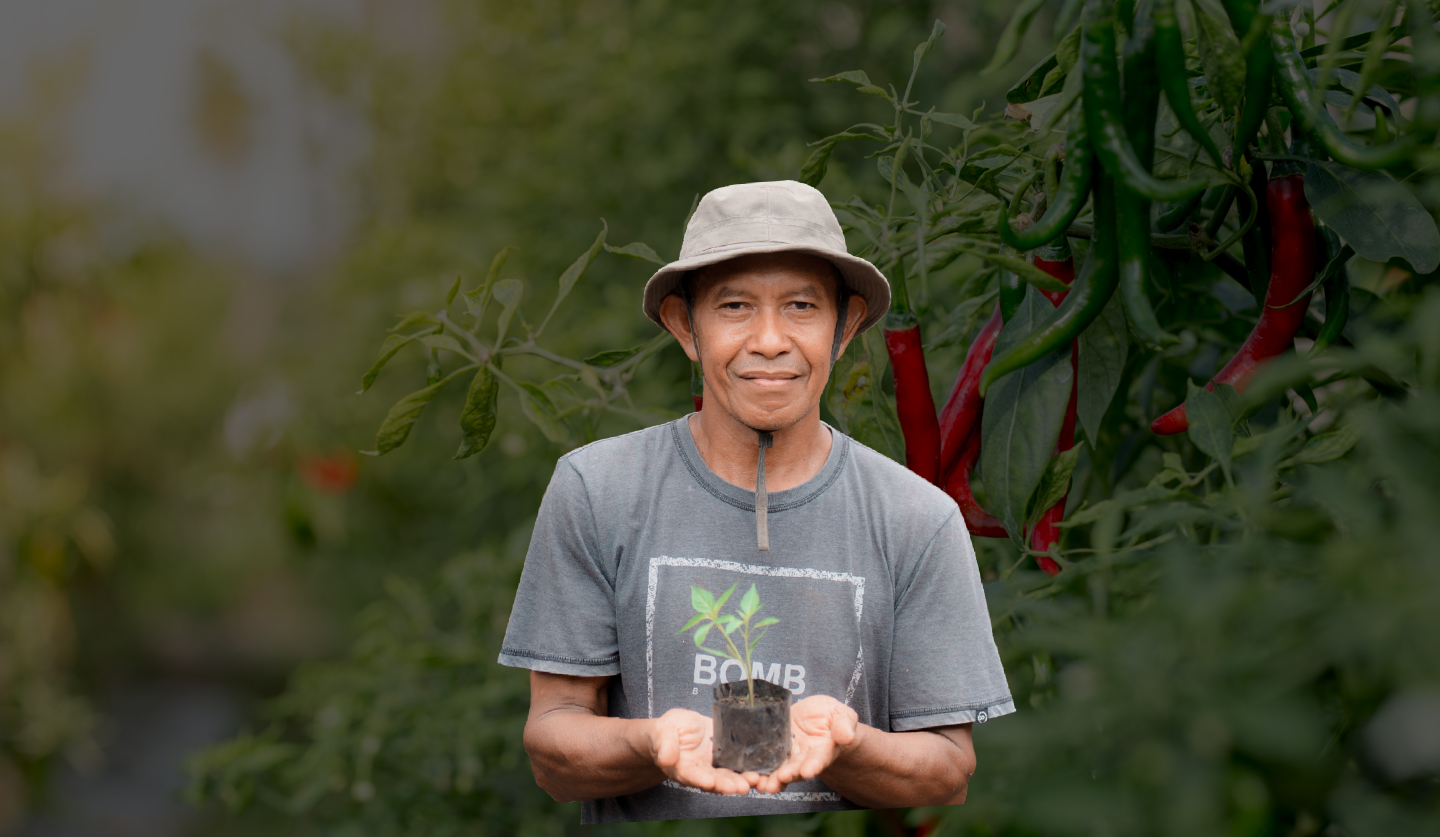
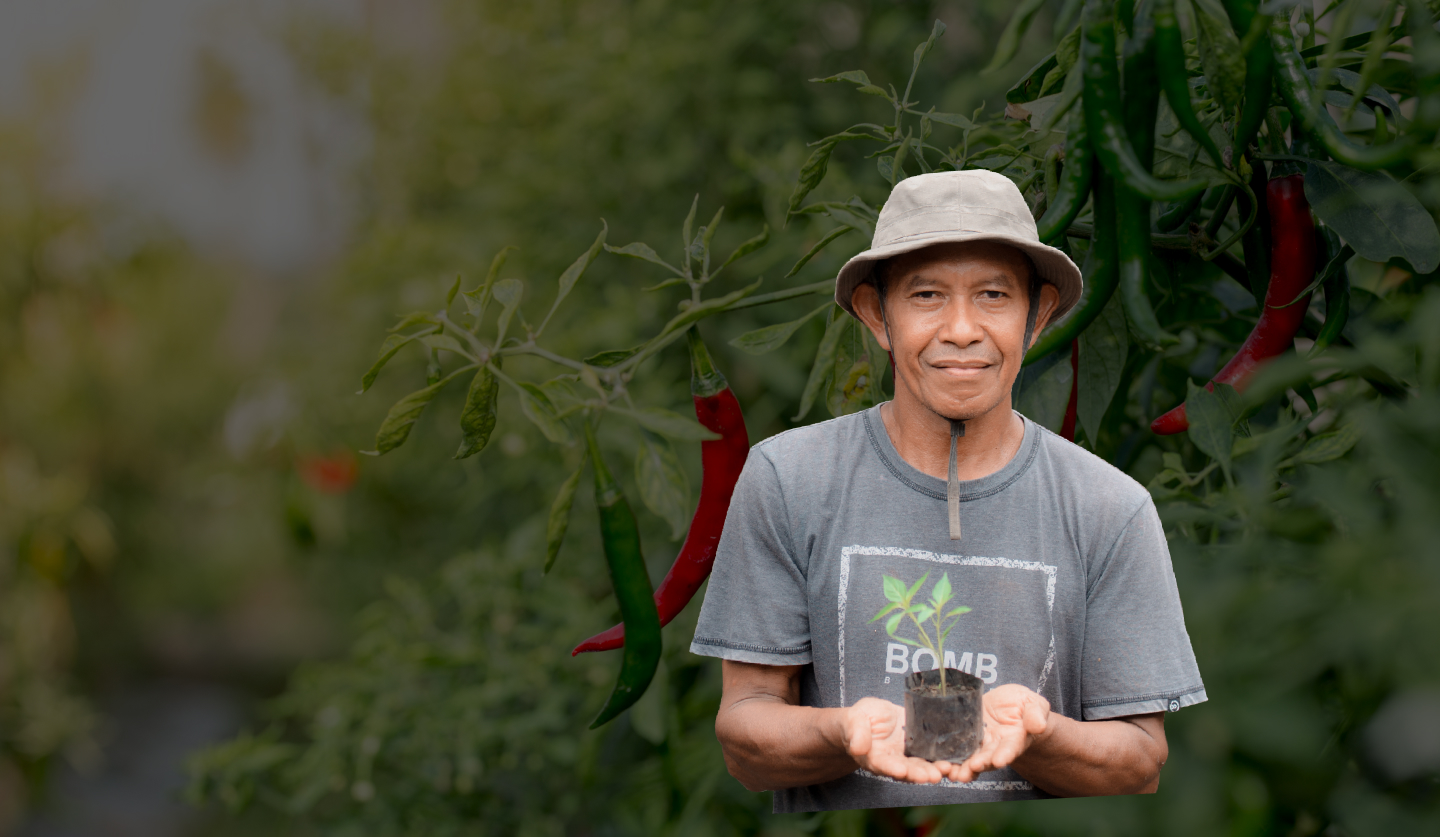
Changes to be committed: 	modified:   index.html 	modified:   src/css/style.css 	modified:   src/img/hero-bg.jpg 	modified:   src/img/hero-bg.webp

Changed region(s): [[0.3438, 0.1864, 0.8438, 0.994]]

diff --git a/index.html b/index.html
@@ -56,9 +56,6 @@
 
 <body>
     <!-- <img src="src/img/hero-bg.jpg" alt="" class="hero-bg" /> -->
-    <img src="src/img/tagline (1).png" alt="" class="tagline-1" />
-    <img src="src/img/tagline (2).png" alt="" class="tagline-2" />
-
     <header>
         <nav class="navbar navbar-expand-lg navbar-padding navbar-dark">
             <div class="container">
@@ -116,13 +113,15 @@
                     <div class="col-lg-8 col-sm-12 text-light h-100 hero-headline lh-sm">
                         <p class="mb-0 fs-5">Selamat Datang di<br />Website Resmi</p>
                         <h1 class="display-1 headline mb-4">RINDANG</h1>
-                        <div class="">
-                            <p class="mb-4">
+                        <div class="mb-5">
+                            <p class="mb-5 fs-4">
                                 "Konektivitas Menuju <br />
                                 Kemandirian Pangan Kota"
                             </p>
                             <a href="#" class="btn-1 fw-bold" role="button">Jelajahi</a>
                         </div>
+                        <div class="">#dimulaidarikampung</div>
+                        <div class="">#ricatanamdalamkampung</div>
                     </div>
                 </div>
             </div>
@@ -753,7 +752,7 @@
 
                     <div class="row d-none d-md-flex">
                         <!-- Desktop -->
-                        <div class="col-12 mb-3 logos d-flex justify-content-evenly gap-5">
+                        <div class="col-12 mb-3 logos d-flex justify-content-center gap-5">
                             <img class="img-fluid" src="src/img/logo/BI_Logo.png" alt="" />
                             <img class="img-fluid" src="src/img/logo/Logo Ternate (1).png" alt="" />
                             <img class="img-fluid" src="src/img/logo/Universitas-Khairun-Logo.png" alt="" />

diff --git a/src/css/style.css b/src/css/style.css
@@ -144,7 +144,7 @@ button:focus {
 
 .logos img {
     width: auto;
-    height: 80px;
+    height: 60px;
 }
 
 #map1,
@@ -169,7 +169,7 @@ button:focus {
     }
 
     .hero-headline {
-        transform: translate(0, 4rem);
+        transform: translate(0, 3.5rem);
     }
 
     .headline {
@@ -183,22 +183,6 @@ button:focus {
 
     .stat-card {
         margin-bottom: 1rem;
-    }
-
-    .tagline-1,
-    .tagline-2 {
-        position: absolute;
-        height: 3.5rem;
-    }
-
-    .tagline-1 {
-        left: 2rem;
-        bottom: 6rem;
-    }
-
-    .tagline-2 {
-        right: 2rem;
-        bottom: 10rem;
     }
 
     .village-card {
@@ -238,7 +222,7 @@ button:focus {
     }
 
     .hero-headline {
-        transform: translate(0, 6rem);
+        transform: translate(0, 4rem);
     }
 
     .rindang-stat {
@@ -247,22 +231,6 @@ button:focus {
 
     .mobile-headline {
         display: none;
-    }
-
-    .tagline-1,
-    .tagline-2 {
-        position: absolute;
-        height: 5rem;
-    }
-
-    .tagline-1 {
-        right: 15rem;
-        top: 22rem;
-    }
-
-    .tagline-2 {
-        right: 8rem;
-        top: 16rem;
     }
 
     .village-card {
